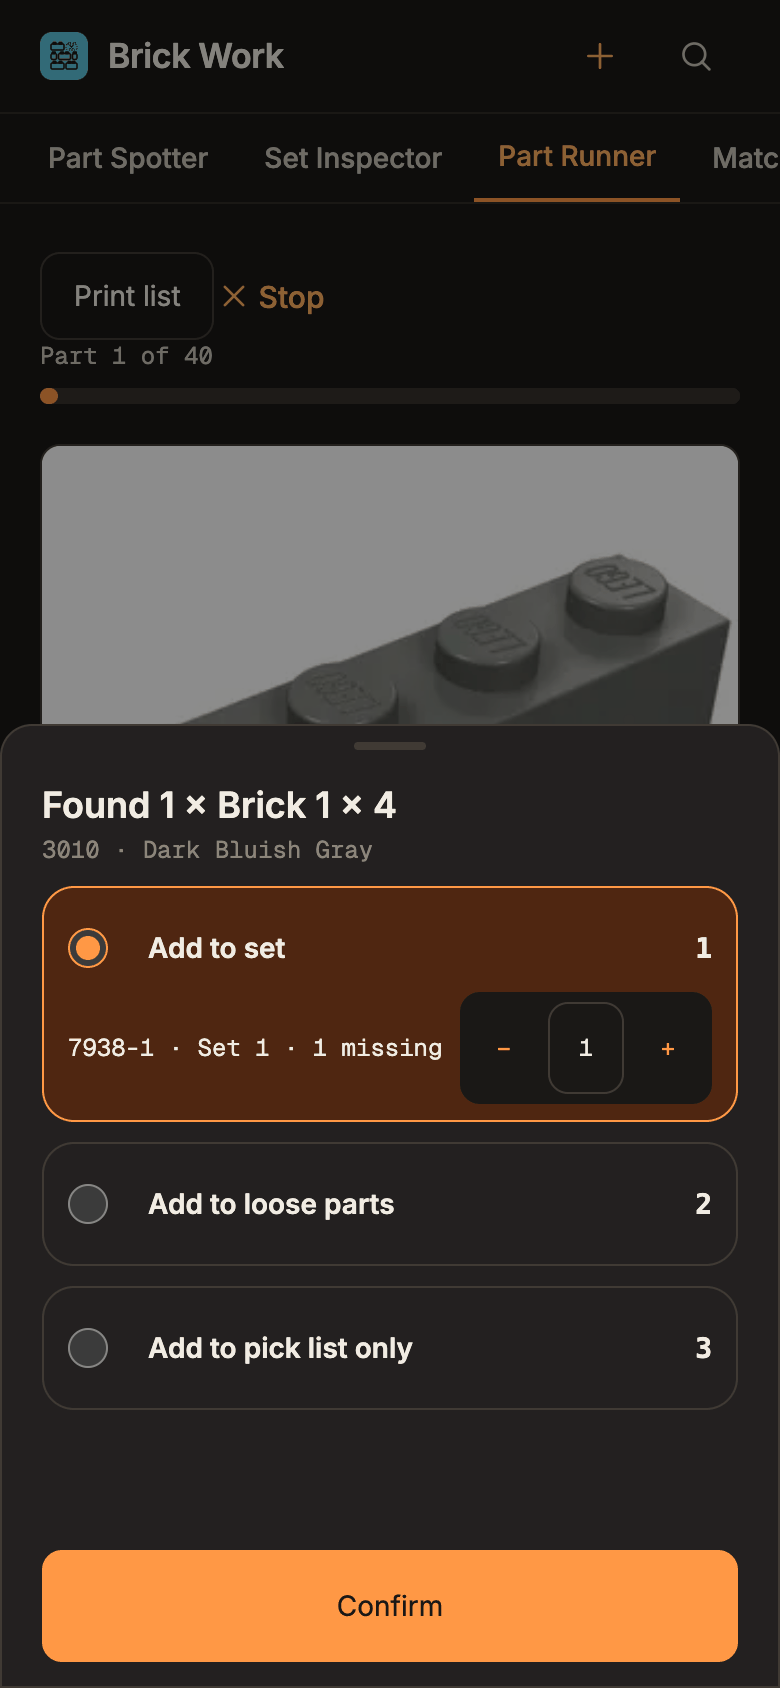
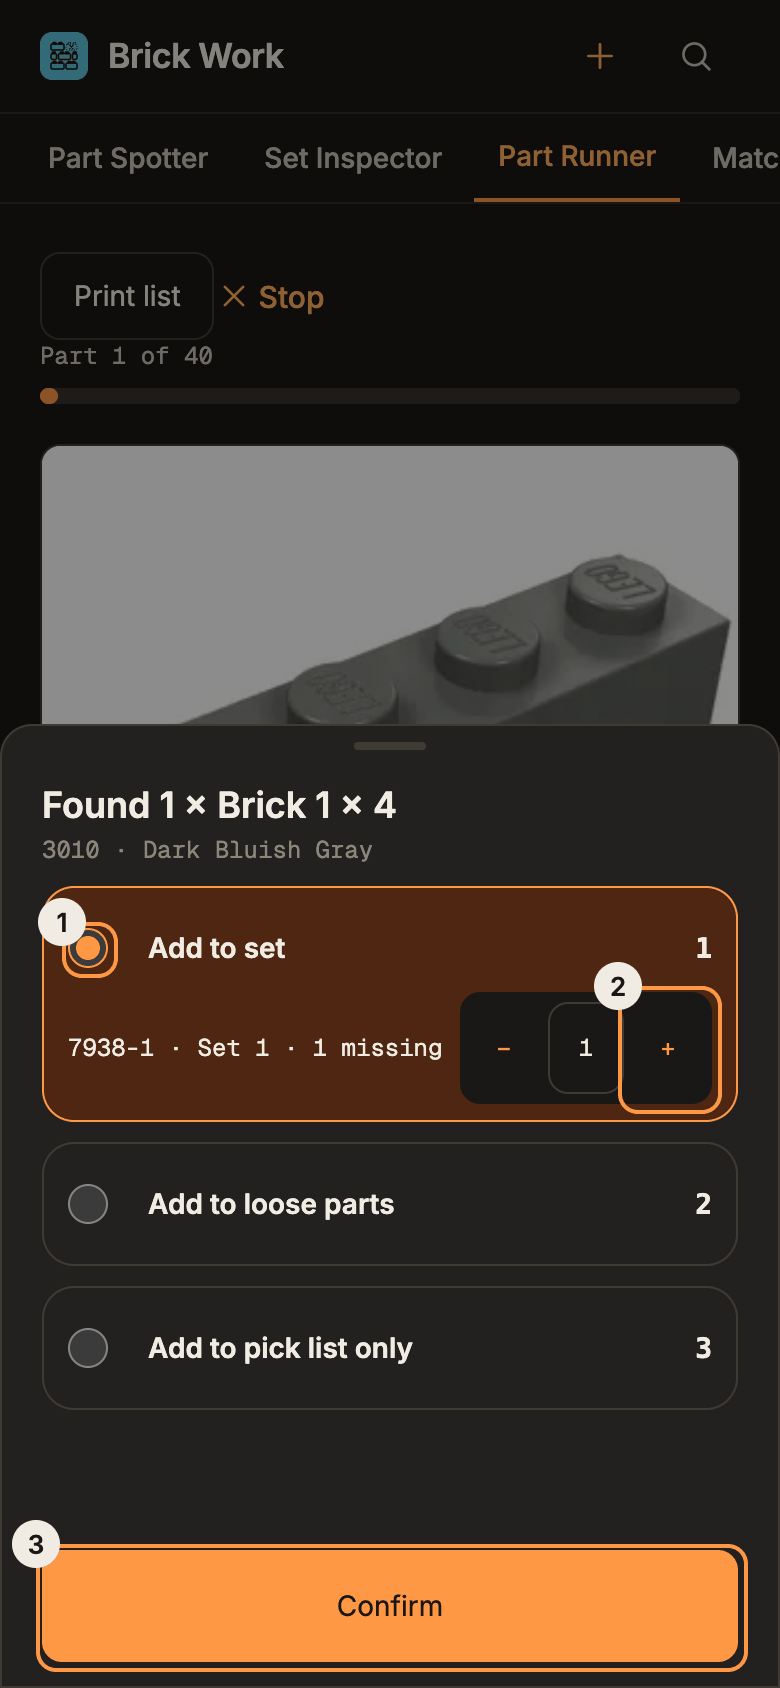
Docs: call-outs inside a modal dialog (the phone Found it sheet showed none), a named error for a missing set, storage step wording (review findings)
Claude-Session: https://claude.ai/code/session_018rf9z7oGb7bys5mk2HcdAb

diff --git a/scripts/site_shots.py b/scripts/site_shots.py
@@ -130,20 +130,24 @@ PICTURES = {
 def callouts(*marks):
     """JS for a job's `after`: a clay ring round each element and a numbered disc on its top left corner, drawn from the element's box (App Docs Standard,
     screenshot standard). `marks` are (selector, number) pairs. The disc is the ink of the page with paper digits and, in dark mode, the page's light
-    ink with dark digits: the tokens do the inversion. Nothing here depends on timing: the boxes are read after the fonts are loaded and the viewport has its final size."""
+    ink with dark digits: the tokens do the inversion. Nothing here depends on timing: the boxes are read after the fonts are loaded and the viewport has its final size. A mark whose element sits inside a modal dialog (shown with showModal) is drawn inside that dialog, because the top layer hides body-level overlays."""
     return """
 await document.fonts.ready;
 const marks = %s;
 for (const [selector, number] of marks) {
   const el = document.querySelector(selector);
   if (!el) throw new Error('call-out target missing: ' + selector);
-  const r = el.getBoundingClientRect(), x = r.left + scrollX, y = r.top + scrollY;
+  const host = el.closest('dialog:modal') || document.body;
+  const hostRect = host === document.body ? null : host.getBoundingClientRect();
+  const r = el.getBoundingClientRect();
+  const x = hostRect ? r.left - hostRect.left + host.scrollLeft : r.left + scrollX;
+  const y = hostRect ? r.top - hostRect.top + host.scrollTop : r.top + scrollY;
   const ring = document.createElement('div');
   ring.style.cssText = `position:absolute;left:${x - 4}px;top:${y - 4}px;width:${r.width + 8}px;height:${r.height + 8}px;box-sizing:border-box;border:2px solid var(--tw-accent);border-radius:10px;pointer-events:none;z-index:2147483646`;
   const disc = document.createElement('div');
   disc.textContent = String(number);
   disc.style.cssText = `position:absolute;left:${x - 16}px;top:${y - 16}px;width:24px;height:24px;border-radius:50%%;background:var(--tw-text);color:var(--tw-bg);font:600 13px/24px var(--tw-font, sans-serif);text-align:center;pointer-events:none;z-index:2147483647`;
-  document.body.append(ring, disc);
+  host.append(ring, disc);
 }
 """ % json.dumps(marks)
 
@@ -195,8 +199,9 @@ def tag_nth(selector, n, attr='data-shot-area', closest=None):
 REAL = {'real': lambda number: uid('copy', number, 'a')}['real']
 REAL_STARTED, REAL_GAPS = REAL('8043-1'), REAL('7938-1')   # a check about 40 % answered; a check answered to the end, with gaps
 BULK_PICKED = '/workbench/part-picker?copy=' + '&copy='.join(REAL(n) for n in ('31120-1', '7938-1', '7213-1'))
-CHOOSE_REAL_SETS = ("document.querySelector('[data-none]').click(); for (const n of ['31120-1', '7938-1', '7213-1']) "
-                    "document.querySelector('[data-number=' + JSON.stringify(n) + '] input').click(); await new Promise(r => setTimeout(r, 300));")
+CHOOSE_REAL_SETS = ("document.querySelector('[data-none]').click(); for (const n of ['31120-1', '7938-1', '7213-1']) { "
+                    "const box = document.querySelector('[data-number=' + JSON.stringify(n) + '] input'); if (!box) throw new Error('Part Runner does not list ' + n); box.click(); } "
+                    "await new Promise(r => setTimeout(r, 300));")
 LAYOUT_SCALE = {'desktop': 2, 'phone': 2}
 assert 'Old Mill' in ADD_SEARCH
 TUTORIAL_SHOTS = {

diff --git a/docs/tutorials/build-from-your-bulk.md b/docs/tutorials/build-from-your-bulk.md
@@ -17,7 +17,7 @@ It takes about 20 minutes. You need a Brick Work install with some copies that h
 4. Press **Add storage**. The new drawer appears in the list.
 5. Open **Collection → Parts**, turn on **Select mode**, and tick the loose parts that belong in that drawer.
 6. In the bar that appears, under **Change**, choose **Storage**. Under **Value**, choose your drawer. Press **Save**.
-7. Go back to **Workbench → Storage** and select the drawer. You see its part lots with their counts.
+7. Go back to **Workbench → Storage** and select the drawer. The header counts its sets, figures, part lots and pieces, and the list below it shows each one.
 
 ![Workbench Storage with Drawer 3 open: the header counts its sets, figures, part lots and pieces.](../img/tutorials/tut-storage-desktop-1024-light.png#only-light)
 ![Workbench Storage with Drawer 3 open: the header counts its sets, figures, part lots and pieces.](../img/tutorials/tut-storage-desktop-1024-dark.png#only-dark)
